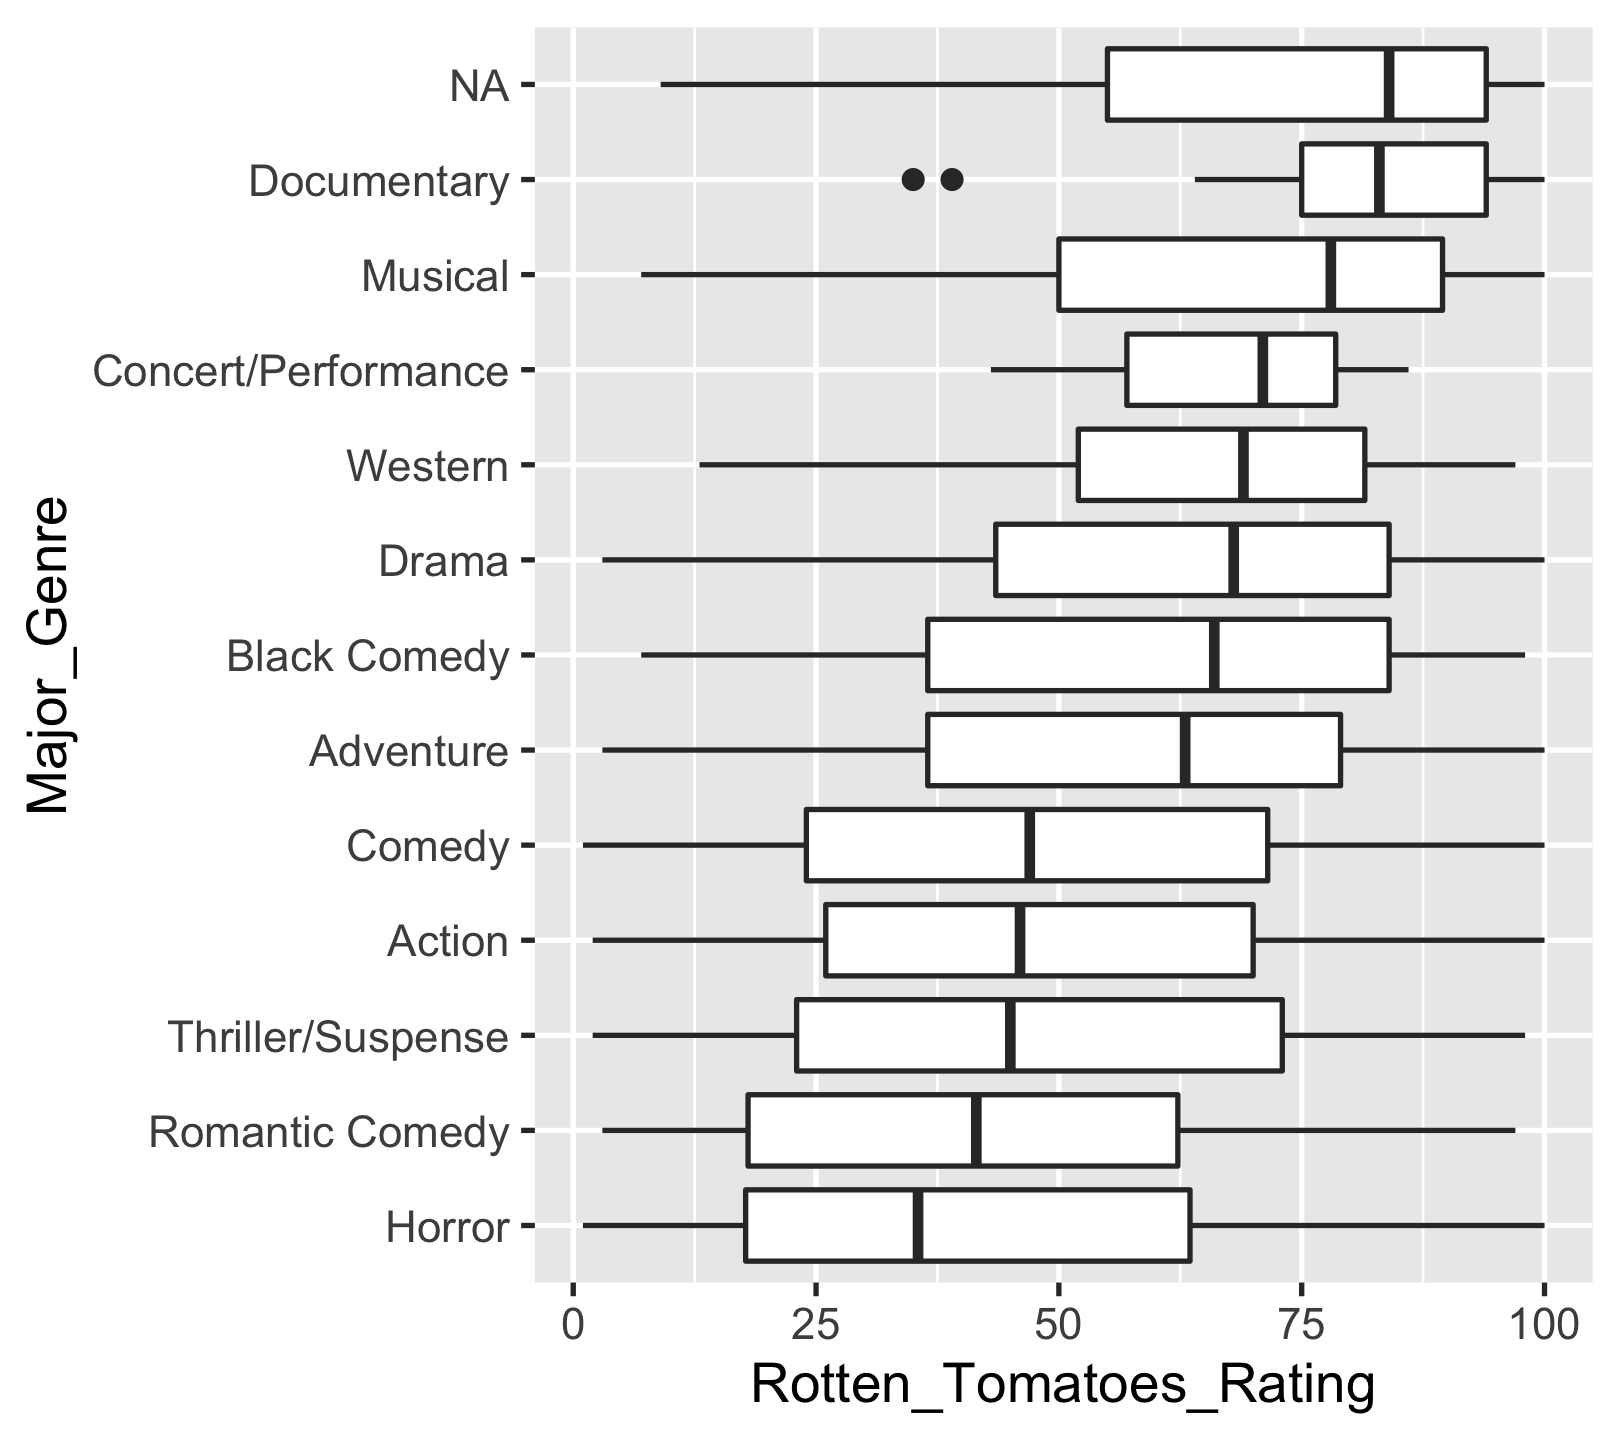
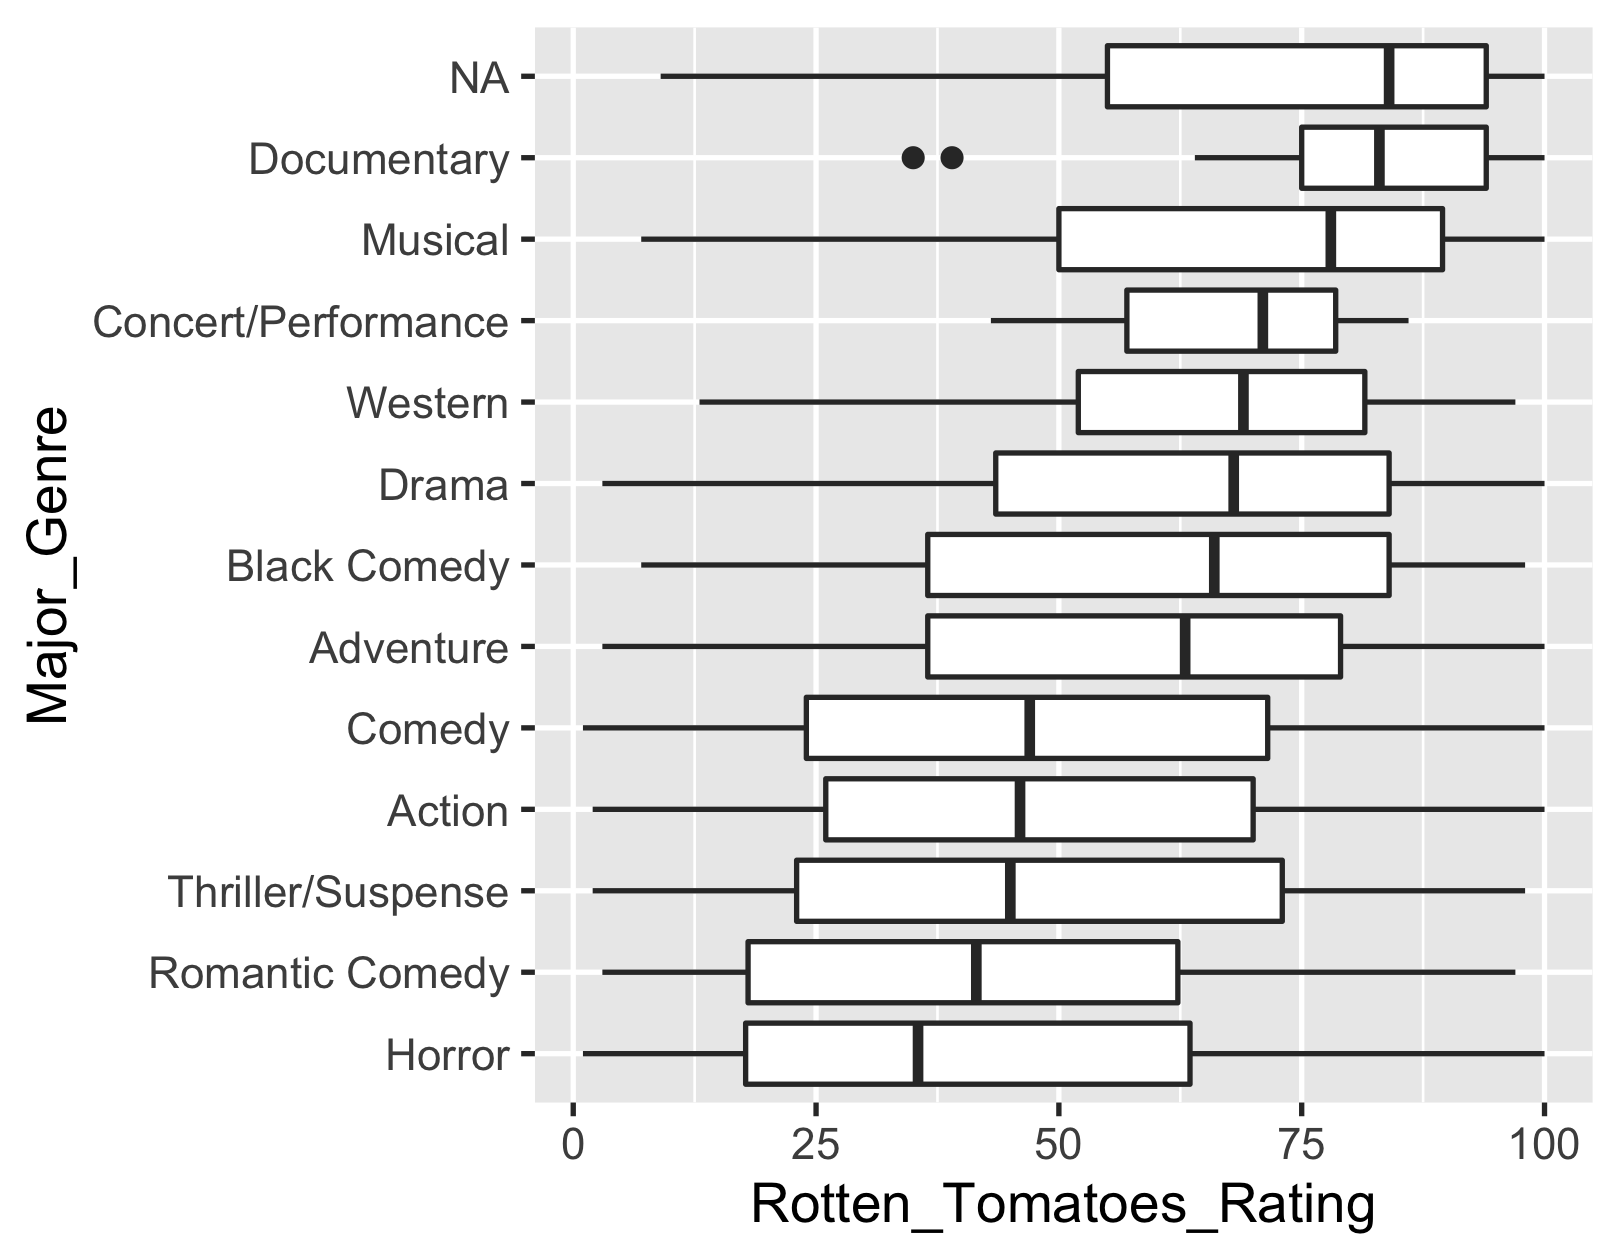
notes on 05

diff --git a/lectures/05-fcts-dates.html b/lectures/05-fcts-dates.html
@@ -57,7 +57,7 @@ class: middle center inverse
 .center[[&lt;img src="https://raw.githubusercontent.com/rstudio/hex-stickers/master/PNG/forcats.png" width="60%"&gt;](http://forcats.tidyverse.org)]
 ]
 .right-column[
-## From one type to factor
+## Coerce to factors from one type
 
 ```r
 dept &lt;- c("Physics", "Mathematics", "Statistics",
@@ -84,6 +84,11 @@ dept_fct
 ]
 
 
+
+???
+
+* diff displays
+* fct: w meta info
 
 ---
 
@@ -214,34 +219,53 @@ rep(dept_fct, 3)
 
 ```r
 dist_dept &lt;- unique(dept)
-factor(dept, levels = dist_dept)
+factor(dept, levels = dist_dept) # in first appearance order
 ```
 
 ```
 #&gt; [1] Physics          Mathematics      Statistics       Computer Science
-#&gt; Levels: Physics Mathematics Statistics Computer Science
+*#&gt; Levels: Physics Mathematics Statistics Computer Science
 ```
 
 ```r
-factor(dept, levels = rev(dist_dept))
+factor(dept, levels = rev(dist_dept)) # in reverse order
 ```
 
 ```
 #&gt; [1] Physics          Mathematics      Statistics       Computer Science
-#&gt; Levels: Computer Science Statistics Mathematics Physics
+*#&gt; Levels: Computer Science Statistics Mathematics Physics
 ```
+
+???
+
+* data values not changing, only meta info levels changed
 
 ---
 
 ## Reorder factor levels to easily perceive patterns
+## .center[`sci_tbl` &lt;i class="fas fa-table"&gt;&lt;/i&gt;]
 
 .pull-left[
-### .center[`sci_tbl`]
 &lt;img src="figure/fct-vis-1.png" width="420" style="display: block; margin: auto;" /&gt;
 ]
 .pull-right[
-### .center[`movies`]
+&lt;img src="figure/fct-ror-1.png" width="420" style="display: block; margin: auto;" /&gt;
+]
+
+???
+
+* in default order, takes time to process info
+
+---
+
+## Reorder factor levels to easily perceive patterns
+## .center[`movies` &lt;i class="fas fa-table"&gt;&lt;/i&gt;]
+
+.pull-left[
 &lt;img src="figure/box-movies-1.png" width="540" style="display: block; margin: auto;" /&gt;
+]
+.pull-right[
+&lt;img src="figure/box-movies-med-1.png" width="540" style="display: block; margin: auto;" /&gt;
 ]
 
 ---
@@ -258,7 +282,7 @@ sci_tbl %&gt;%
   geom_col()
 ```
 
-&lt;img src="figure/fct-ror-1.png" width="420" style="display: block; margin: auto;" /&gt;
+&lt;img src="figure/fct-ror-p2-1.png" width="420" style="display: block; margin: auto;" /&gt;
 ]
 ]
 .pull-right[
@@ -319,7 +343,7 @@ movies %&gt;%
 ```
 ]
 .pull-right[
-&lt;img src="figure/unnamed-chunk-1-1.png" width="540" style="display: block; margin: auto;" /&gt;
+&lt;img src="figure/box-movies-med3-1.png" width="540" style="display: block; margin: auto;" /&gt;
 ]
 
 ---
@@ -340,7 +364,7 @@ movies %&gt;%
 ```
 ]
 .pull-right[
-&lt;img src="figure/unnamed-chunk-2-1.png" width="540" style="display: block; margin: auto;" /&gt;
+&lt;img src="figure/unnamed-chunk-1-1.png" width="540" style="display: block; margin: auto;" /&gt;
 ]
 
 ---
@@ -361,7 +385,7 @@ movies %&gt;%
 ```
 ]
 .pull-right[
-&lt;img src="figure/unnamed-chunk-3-1.png" width="540" style="display: block; margin: auto;" /&gt;
+&lt;img src="figure/unnamed-chunk-2-1.png" width="540" style="display: block; margin: auto;" /&gt;
 ]
 
 ---
@@ -436,6 +460,11 @@ scores_tbl %&gt;%
 #&gt; # … with 303 more rows
 ```
 
+???
+
+* underappreciated `cut()`, built-in function
+* include `0`, but doesn't matter for this data
+
 ---
 
 ## `fct_recode()` changes factor levels by hand
@@ -502,9 +531,13 @@ class: middle
 
 &gt; What function can we use to replace `fct_recode()` for the `scores_tbl` data?
 
-<div class="countdown" id="timer_60604d50" style="top:0;right:0;font-size:48px;" data-warnwhen="0">
+<div class="countdown" id="timer_60628ff2" style="top:0;right:0;font-size:48px;" data-warnwhen="0">
 <code class="countdown-time"><span class="countdown-digits minutes">00</span><span class="countdown-digits colon">:</span><span class="countdown-digits seconds">30</span></code>
 </div>
+
+???
+
+live demo: `fct_rev()`
 
 ---
 
@@ -512,16 +545,24 @@ class: middle
 .center[[&lt;img src="https://raw.githubusercontent.com/rstudio/hex-stickers/master/PNG/lubridate.png" width="60%"&gt;](http://lubridate.tidyverse.org)]
 ]
 .right-column[
-⬇ {lubridate} is NOT part of the core {tidyverse}
+⬇ {lubridate} is NOT part of the core {tidyverse}, so load with
 
 ```r
 library(lubridate)
 ```
+Relative and exact time units:
 1. An **instant** is a specific moment in time, such as January 1st, 2012.
 2. An **interval** is a period of time that occurs between two specific instants.
 3. A **duration** records the time span in seconds, it will have an exact length since seconds always have the same length.
 4. A **period** records a time span in units larger than seconds, such as years, months, weeks, days, hours, and minutes.
 ]
+
+???
+
+* temporal data (recorded over time) is everywhere. Ur phone tracks your daily life.
+* instant: timestamp
+* leap seconds/years, time zones, DST
+* lab04, tz
 
 ---
 
@@ -533,7 +574,7 @@ library(lubridate)
 ```
 
 ```
-#&gt; [1] "2021-03-28"
+#&gt; [1] "2021-03-30"
 ```
 
 ```r
@@ -557,7 +598,7 @@ as.integer(td) # 1970-01-01
 ```
 
 ```
-#&gt; [1] 18714
+#&gt; [1] 18716
 ```
 ]
 .pull-right[
@@ -568,7 +609,7 @@ as.integer(td) # 1970-01-01
 ```
 
 ```
-#&gt; [1] "2021-03-28 22:26:24 NZDT"
+#&gt; [1] "2021-03-30 15:36:44 NZDT"
 ```
 
 ```r
@@ -588,11 +629,11 @@ typeof(current)
 ```
 
 ```r
-as.integer(current) # 1970-01-01
+as.integer(current) # 1970-01-01 00:00:00
 ```
 
 ```
-#&gt; [1] 1616923584
+#&gt; [1] 1617071804
 ```
 ]
 
@@ -676,8 +717,7 @@ ymd_h(c("2021-03-31 16", "2021-June-04 10"))
 ```
 
 ```r
-dttm &lt;- ymd_h(c("2021-03-31 16", "2021-June-04 10"), tz = "Pacific/Auckland")
-dttm
+(dttm &lt;- ymd_h(c("2021-03-31 16", "2021-June-04 10"), tz = "Pacific/Auckland"))
 ```
 
 ```
@@ -828,11 +868,11 @@ wday(dttm, label = TRUE, week_start = 1)
 
 
 ```r
-floor_date(dttm, "1 hour")
+floor_date(dttm, "3 hours")
 ```
 
 ```
-#&gt; [1] "2021-03-31 16:00:00 NZDT" "2021-06-04 10:00:00 NZST"
+#&gt; [1] "2021-03-31 15:00:00 NZDT" "2021-06-04 09:00:00 NZST"
 ```
 
 ```r
@@ -844,11 +884,11 @@ ceiling_date(dttm, "2 days")
 ```
 
 ```r
-round_date(dttm, "3 months")
+round_date(dttm, "1 month")
 ```
 
 ```
-#&gt; [1] "2021-04-01 NZDT" "2021-07-01 NZST"
+#&gt; [1] "2021-04-01 NZDT" "2021-06-01 NZST"
 ```
 
 ---
@@ -931,7 +971,7 @@ dttm + years(7)
 
 ---
 
-## Format date-times (also convert to characters)
+## Format date-times (also coerce to characters)
 
 .pull-left[
 .small[
@@ -972,9 +1012,9 @@ format(dttm, "on %d %B (%a)")
 .pull-right[
 * `a`/`A`: Abbreviated/full weekday name.
 * `b`/`B`: Abbreviated or full month name.
-* `m`: Month as decimal number (01--12 or 1--12).
-* `d`: Day of the month as decimal number (01--31 or 0--31)
-* `w`: Weekday as decimal number (0--6, Sunday is 0).
+* `m`: Month as decimal number (01-12 or 1-12).
+* `d`: Day of the month as decimal number (01-31 or 0-31)
+* `w`: Weekday as decimal number (0-6, Sunday is 0).
 * `y`/`Y`: Year without/with century.
 * more on [`?parse_date_time()`](https://lubridate.tidyverse.org/reference/parse_date_time.html)
 ]
@@ -1009,7 +1049,7 @@ movies %&gt;%
 ]
 ]
 .pull-right[
-&lt;img src="figure/unnamed-chunk-4-1.png" width="540" style="display: block; margin: auto;" /&gt;
+&lt;img src="figure/unnamed-chunk-3-1.png" width="540" style="display: block; margin: auto;" /&gt;
 ]
 
 ---
